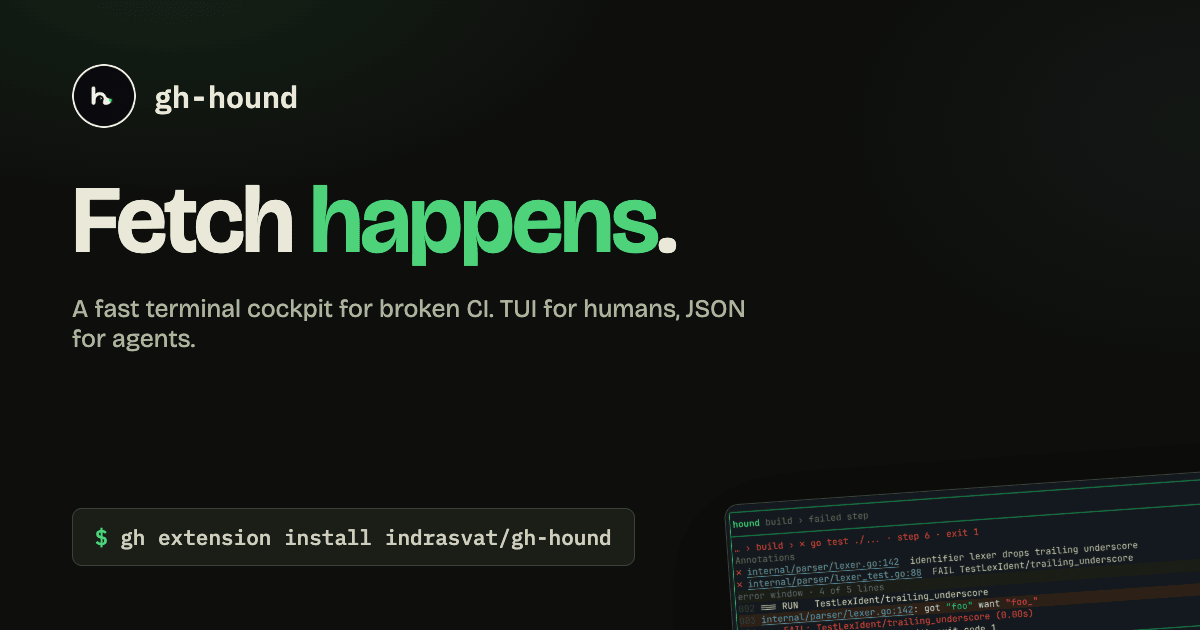
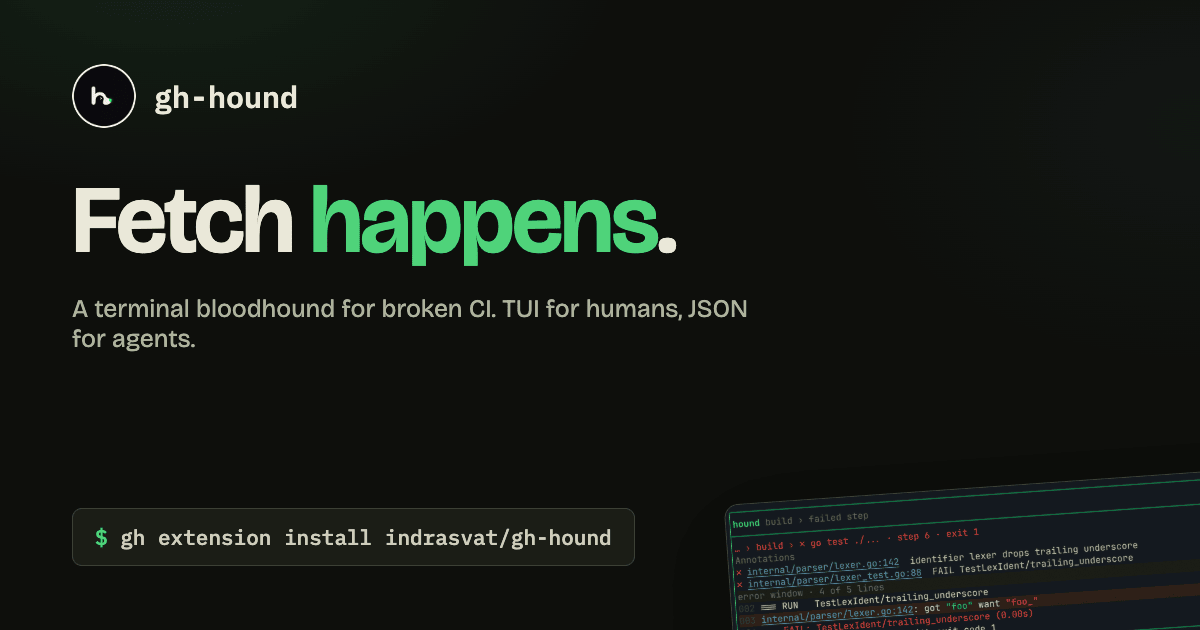
docs: replace cockpit with bloodhound across site and OG card

Changed region(s): [[0.0617, 0.4524, 0.6475, 0.5127]]

diff --git a/pages/index.html b/pages/index.html
@@ -5,7 +5,7 @@
 <meta name="viewport" content="width=device-width,initial-scale=1,viewport-fit=cover">
 <meta name="theme-color" content="#0E0F0C">
 <title>gh-hound · Fetch happens.</title>
-<meta name="description" content="gh-hound is a fast terminal cockpit for GitHub Actions: the failing step, the guilty log line, the rerun verdict. A gh extension with a real TUI for humans and schema-stable JSON for agents.">
+<meta name="description" content="gh-hound is a terminal bloodhound for GitHub Actions: the failing step, the guilty log line, the rerun verdict. A gh extension with a real TUI for humans and schema-stable JSON for agents.">
 
 <link rel="preconnect" href="https://fonts.googleapis.com">
 <link rel="preconnect" href="https://fonts.gstatic.com" crossorigin>
@@ -18,16 +18,16 @@
 <meta property="og:type" content="website">
 <meta property="og:site_name" content="gh-hound">
 <meta property="og:title" content="gh-hound · Fetch happens.">
-<meta property="og:description" content="A fast terminal cockpit for broken CI. TUI for humans, schema-stable JSON for agents.">
+<meta property="og:description" content="A terminal bloodhound for broken CI. TUI for humans, schema-stable JSON for agents.">
 <meta property="og:url" content="https://gh-hound.pages.dev/">
-<meta property="og:image" content="https://gh-hound.pages.dev/og-card.png?v=2026-06-10b">
-<meta property="og:image:secure_url" content="https://gh-hound.pages.dev/og-card.png?v=2026-06-10b">
+<meta property="og:image" content="https://gh-hound.pages.dev/og-card.png?v=2026-06-10c">
+<meta property="og:image:secure_url" content="https://gh-hound.pages.dev/og-card.png?v=2026-06-10c">
 <meta property="og:image:width" content="1200">
 <meta property="og:image:height" content="630">
 <meta name="twitter:card" content="summary_large_image">
 <meta name="twitter:title" content="gh-hound · Fetch happens.">
-<meta name="twitter:description" content="A fast terminal cockpit for broken CI. TUI for humans, schema-stable JSON for agents.">
-<meta name="twitter:image" content="https://gh-hound.pages.dev/og-card.png?v=2026-06-10b">
+<meta name="twitter:description" content="A terminal bloodhound for broken CI. TUI for humans, schema-stable JSON for agents.">
+<meta name="twitter:image" content="https://gh-hound.pages.dev/og-card.png?v=2026-06-10c">
 <link rel="canonical" href="https://gh-hound.pages.dev/">
 </head>
 <body>
@@ -312,7 +312,7 @@
           <img src="/assets/logo.png" alt="" width="34" height="34">
           <span>gh-hound</span>
         </a>
-        <p>A fast, focused terminal cockpit for GitHub Actions. Hunt down your CI.</p>
+        <p>A bloodhound for broken GitHub Actions runs. Fast, loyal, terminal-native &mdash; works for exit codes.</p>
       </div>
       <div class="foot-col">
         <h4>Project</h4>

diff --git a/pages/og-card.html b/pages/og-card.html
@@ -83,7 +83,7 @@
       <span class="name">gh-hound</span>
     </div>
     <h1>Fetch <span class="accent">happens</span>.</h1>
-    <p class="sub">A fast terminal cockpit for broken CI. TUI for humans, JSON for agents.</p>
+    <p class="sub">A terminal bloodhound for broken CI. TUI for humans, JSON for agents.</p>
     <span class="chip"><span class="ps1">$</span> gh extension install indrasvat/gh-hound</span>
     <div class="strip"><img src="assets/shots/failure.png" alt=""></div>
   </div>